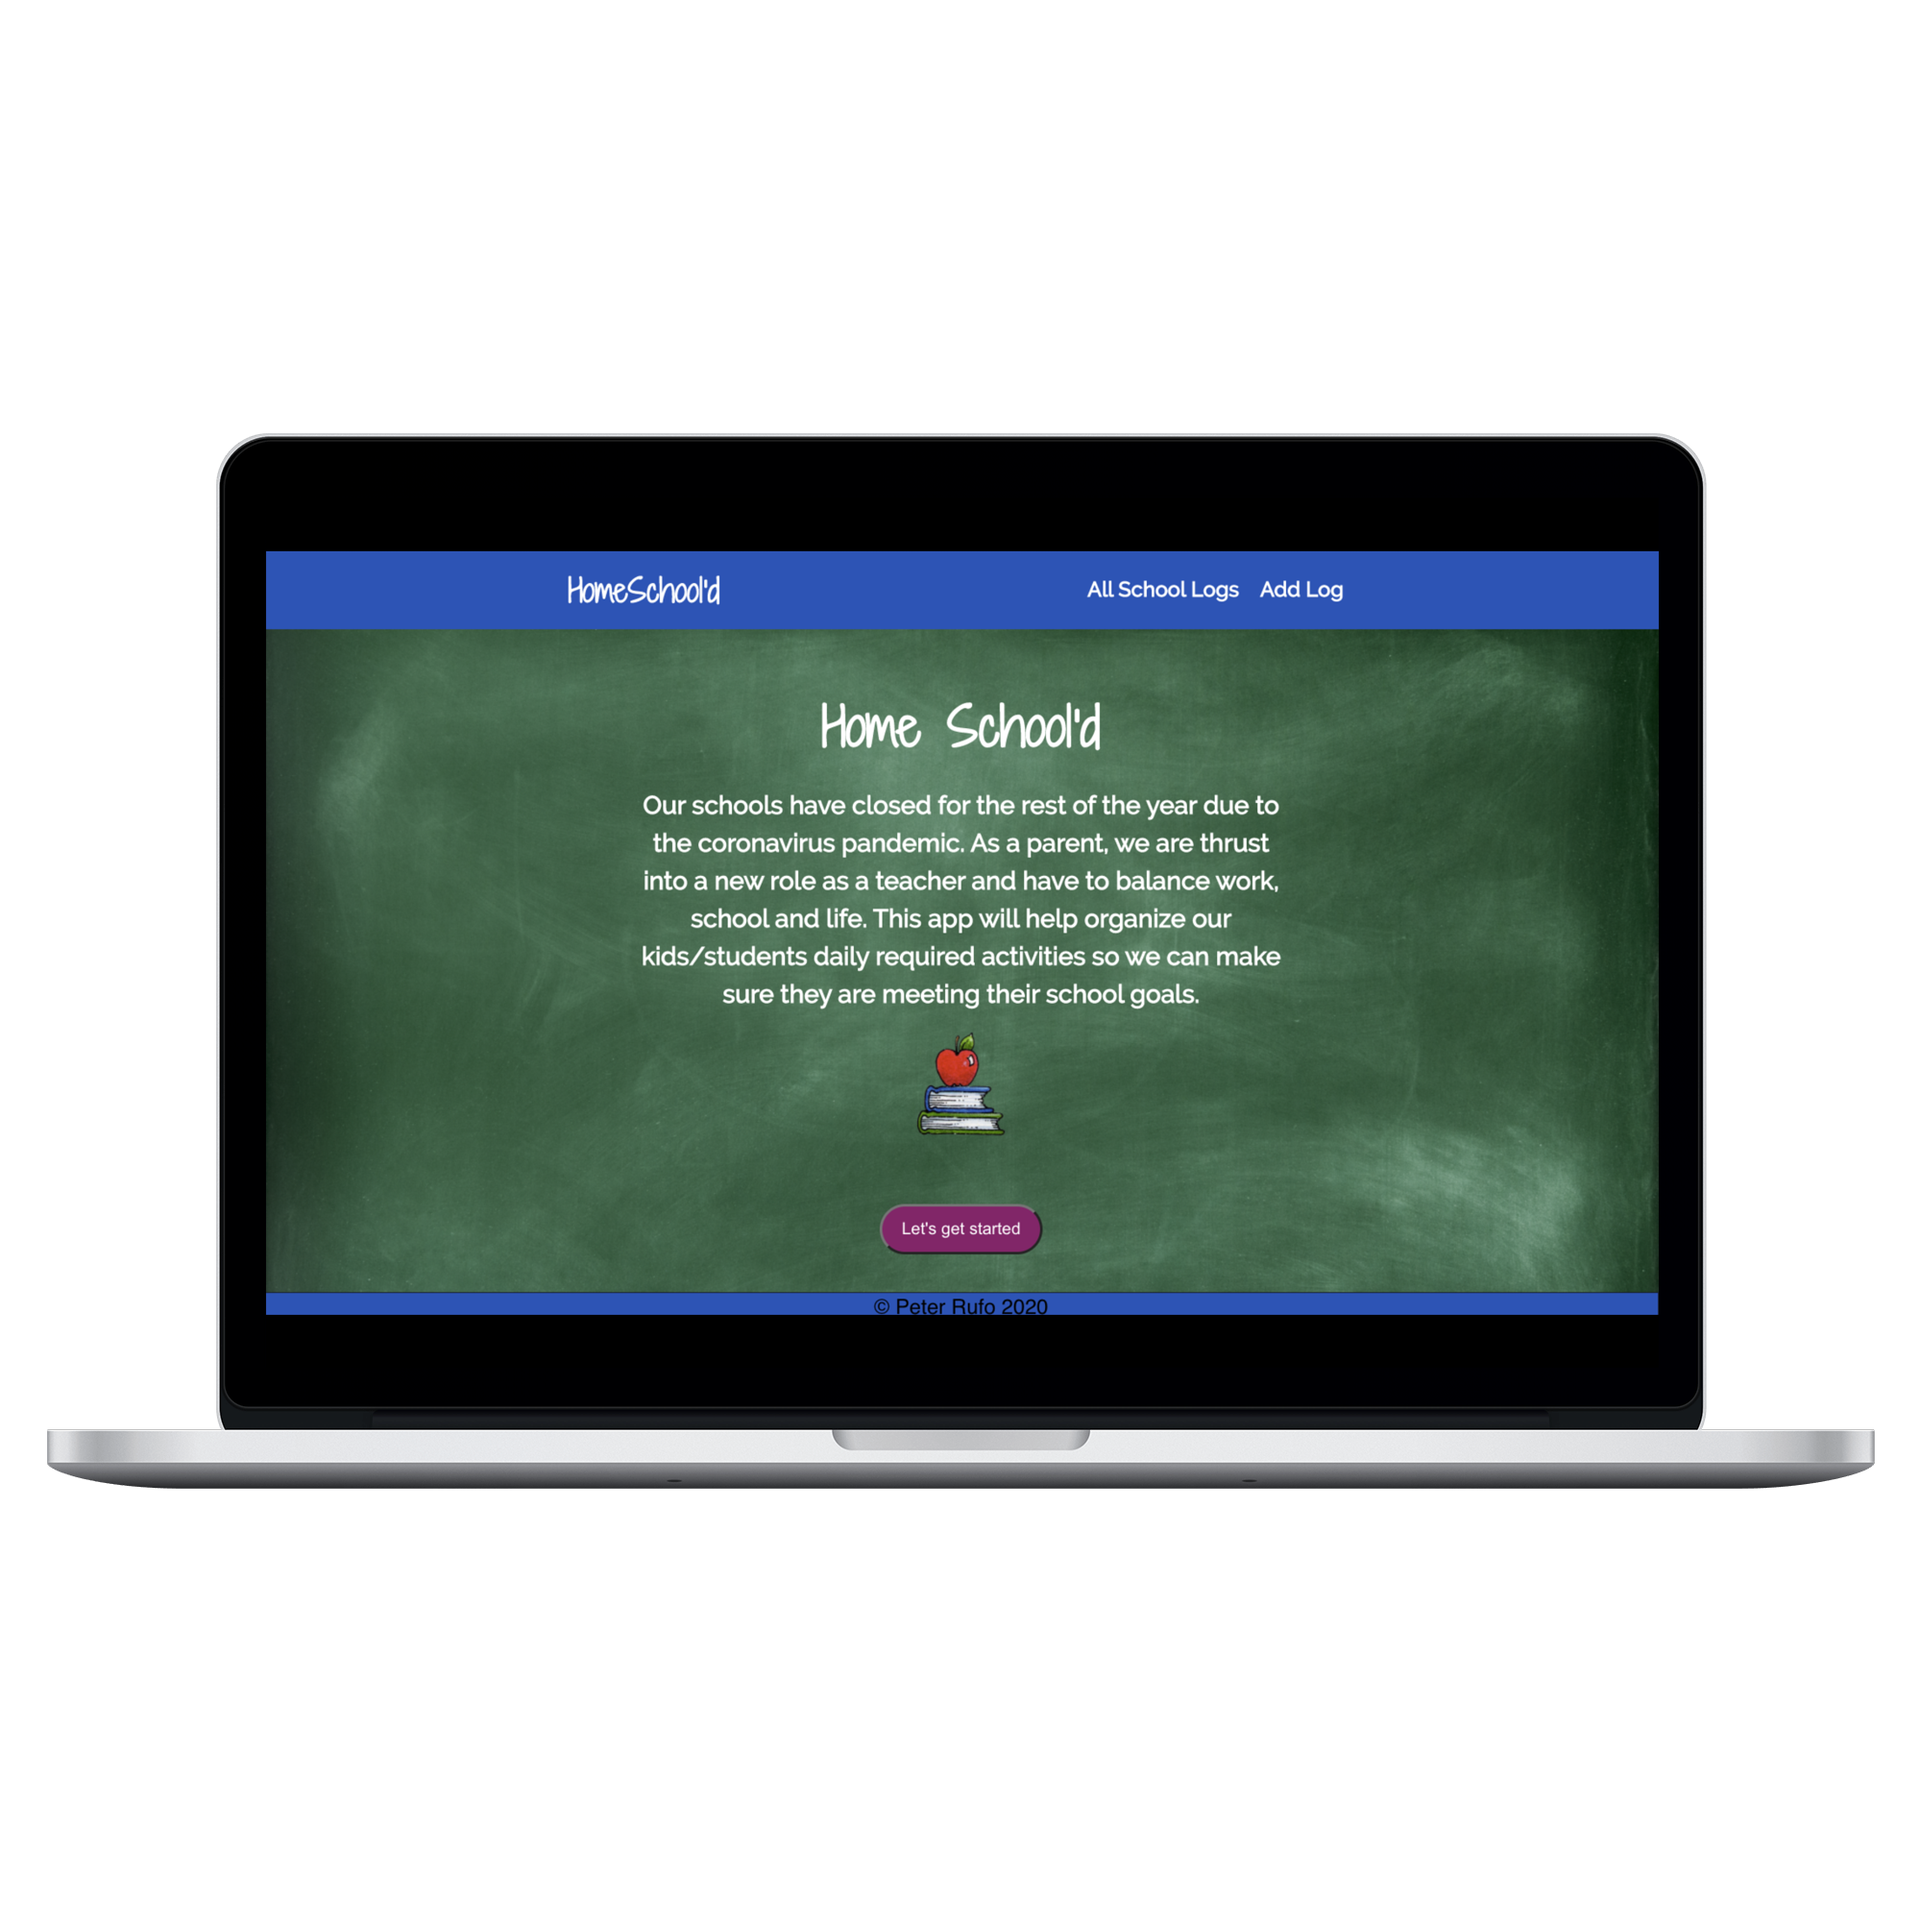
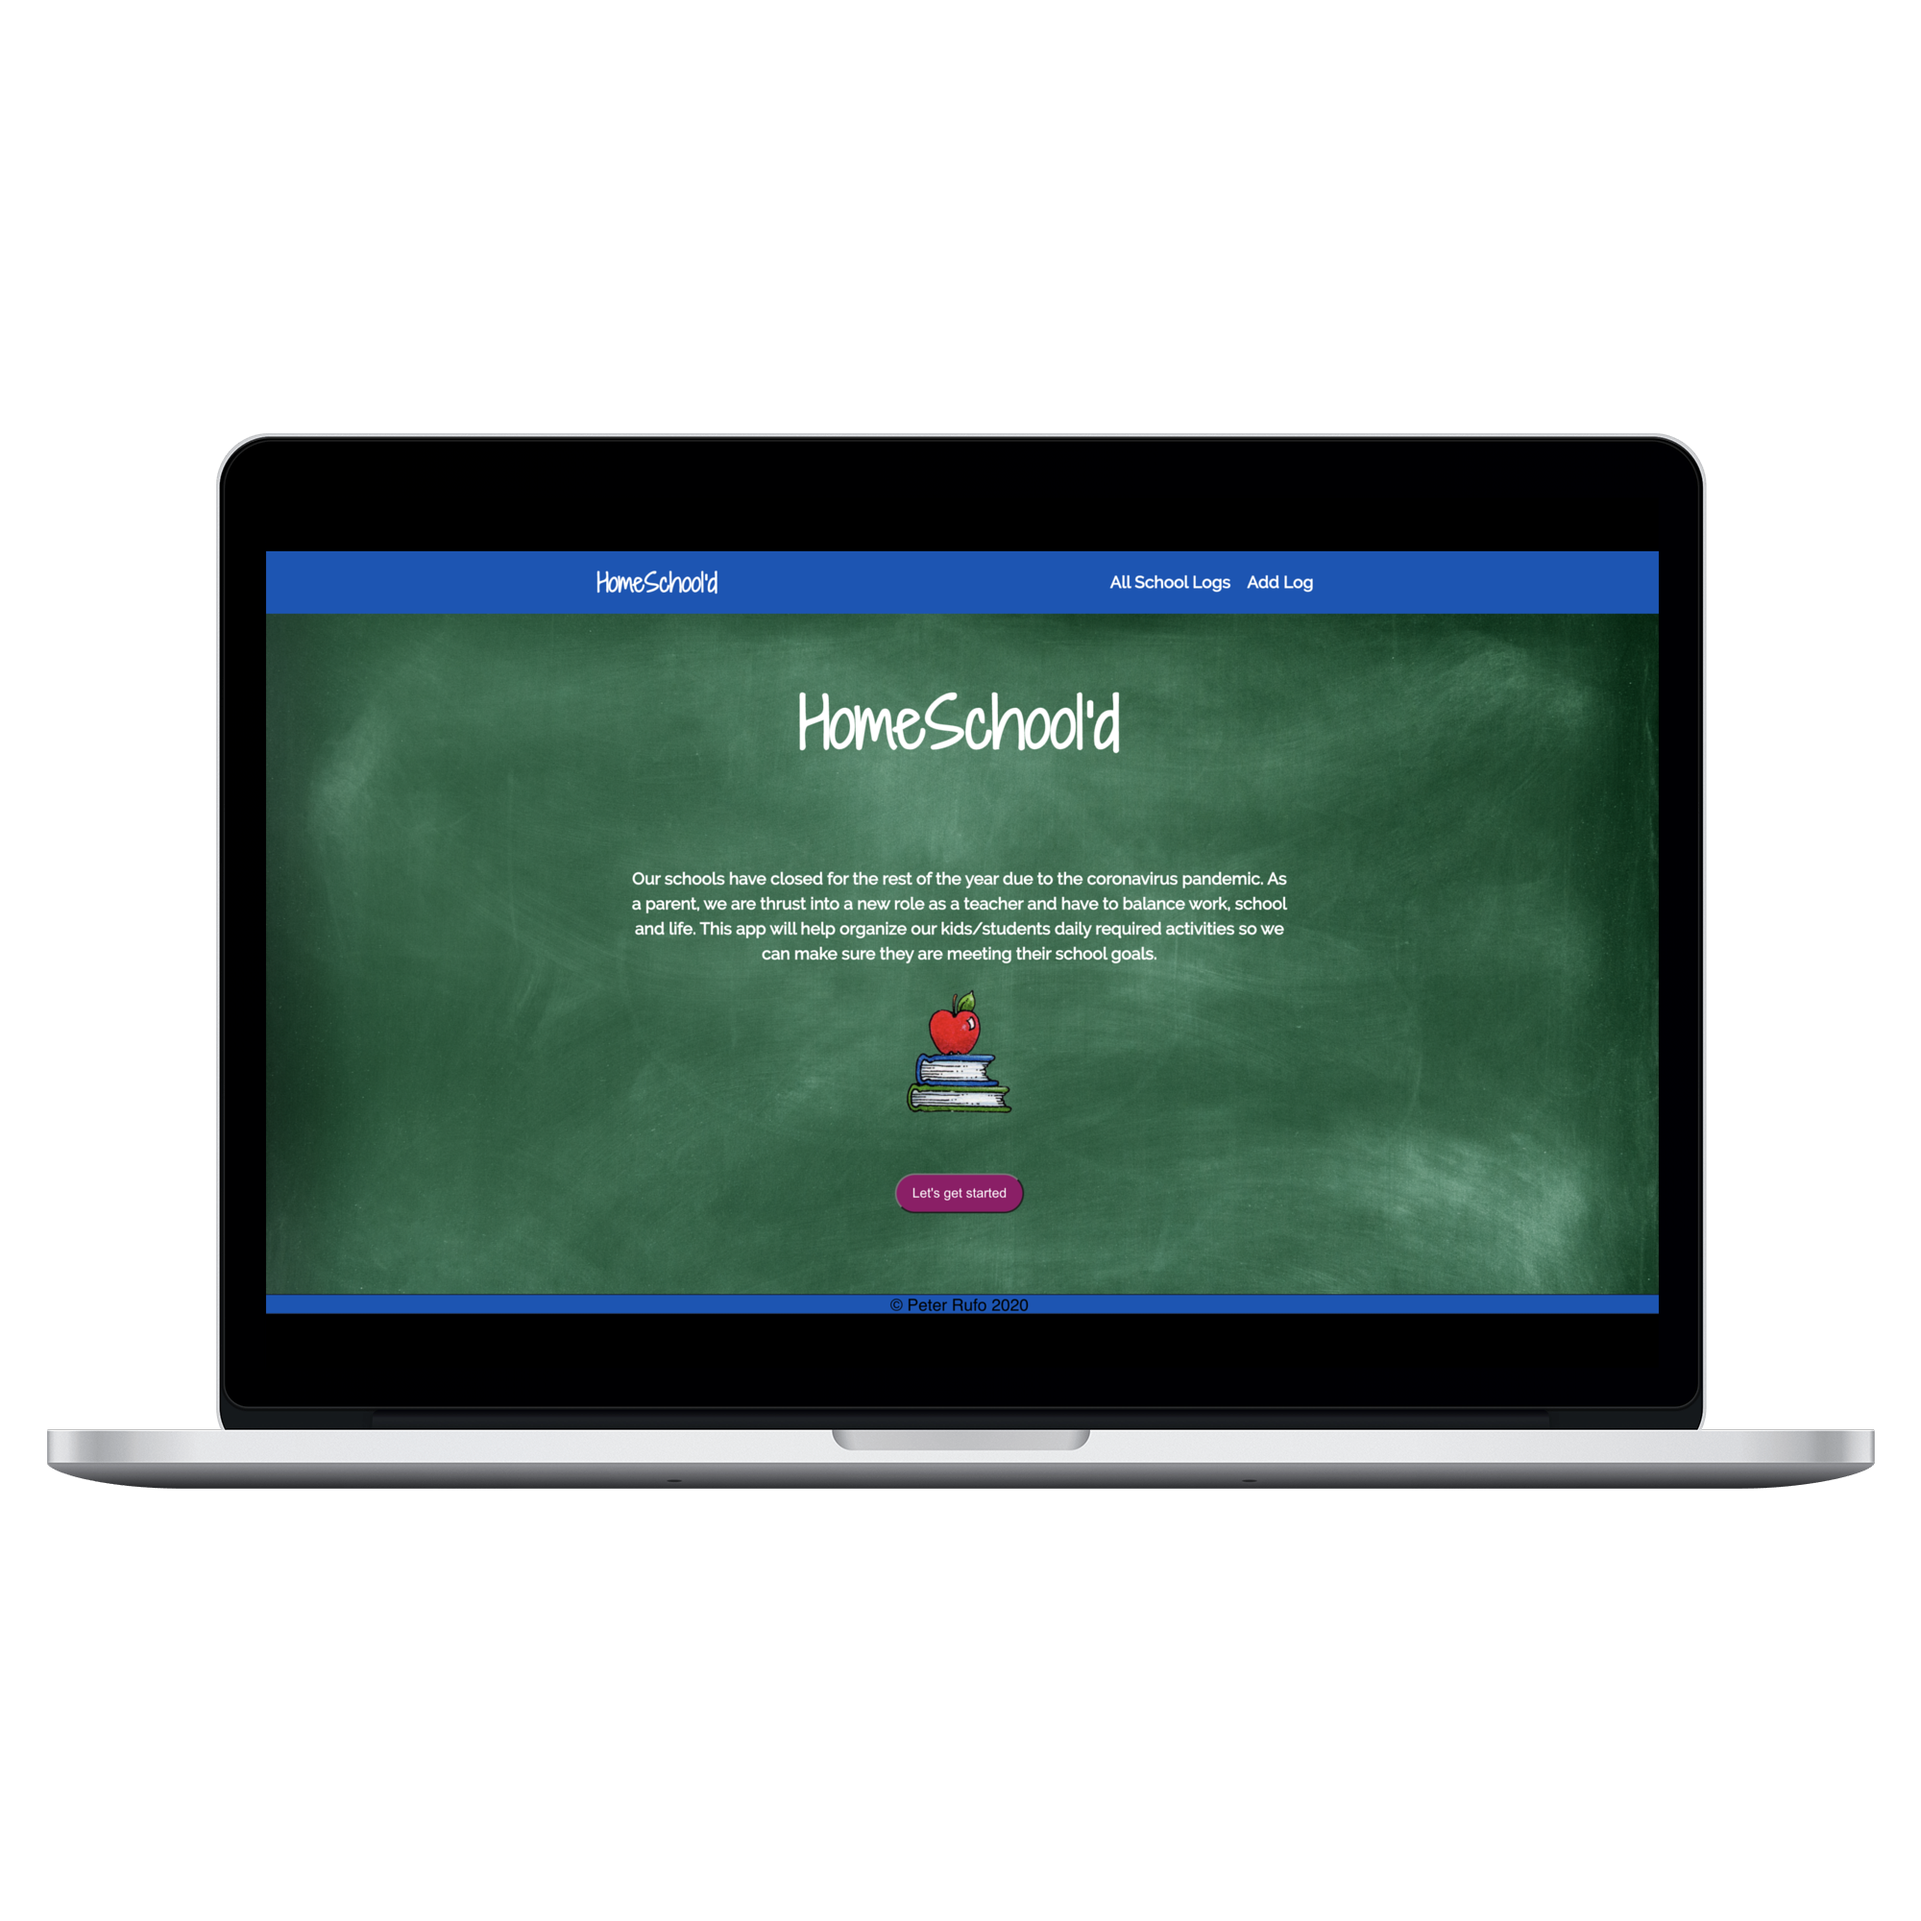
styling fix for laptop

Changed region(s): [[0.124, 0.279, 0.868, 0.682]]

diff --git a/src/Routes/LandingPage/LandingPage.css b/src/Routes/LandingPage/LandingPage.css
@@ -43,7 +43,7 @@
 
 @media only screen and (min-width: 375px) {
   .hero {
-    font-size: 16px;
+    font-size: 20px;
     font-weight: bold;
   }
 
@@ -53,9 +53,10 @@
   }
 
   .hero img {
-    width: 33%;
+    width: 28%;
   }
   .hero p {
+    margin-top: -20px;
     padding: 15px;
     font-size: 14px;
   }
@@ -63,7 +64,7 @@
 
 @media only screen and (min-width: 768px) {
   .hero {
-    padding: 40px;
+    padding: 10px;
     font-weight: bold;
   }
 
@@ -76,7 +77,7 @@
     font-size: 24px;
   }
   .hero img {
-    margin-top: 60px;
+    margin-top: 40px;
     width: 20%;
   }
 
@@ -101,18 +102,17 @@
   }
 
   .hero h1 {
-    font-size: 50px;
+    font-size: 80px;
   }
 
   .hero img {
-    margin-top: 10px;
-
-    width: 7%;
+    margin-top: 30px;
+    width: 8%;
   }
 
   .hero p {
     width: 50%;
-    margin: 0 auto;
+    margin: -30px auto;
     font-size: 20px;
   }
 

diff --git a/src/Routes/LandingPage/LandingPage.js b/src/Routes/LandingPage/LandingPage.js
@@ -7,7 +7,7 @@ export default function LandingPage() {
     <div className="container">
       <main>
         <section className="hero">
-          <h1 className="logo">Home School'd</h1>
+          <h1 className="landing-logo">HomeSchool'd</h1>
           <p>
             Our schools have closed for the rest of the year due to the
             coronavirus pandemic. As a parent, we are thrust into a new role as
